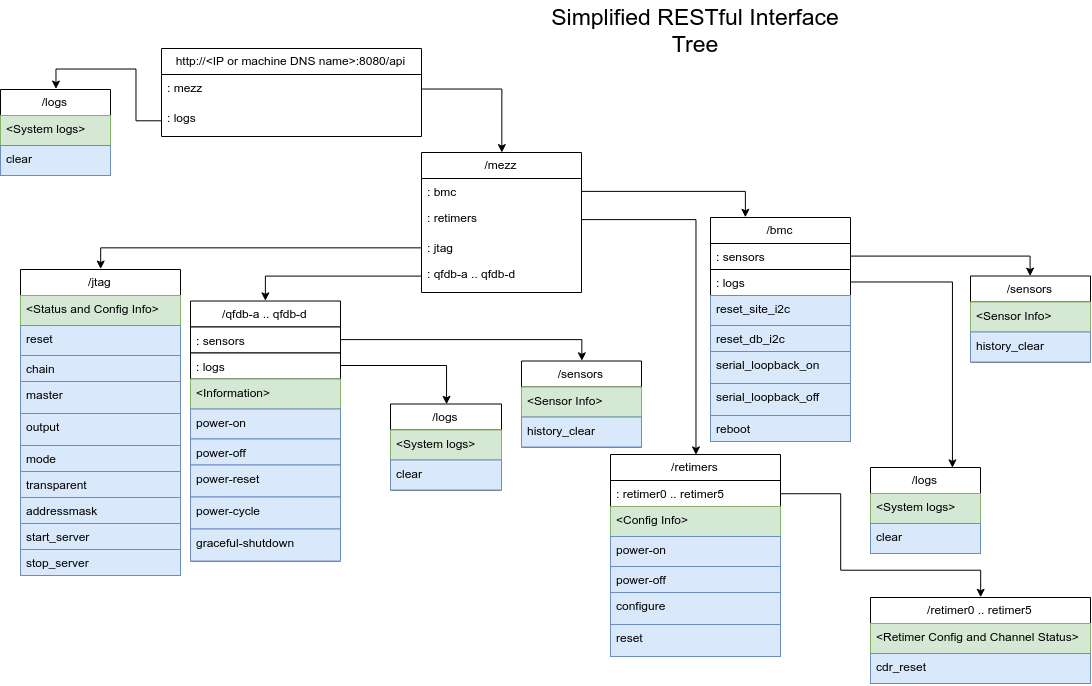
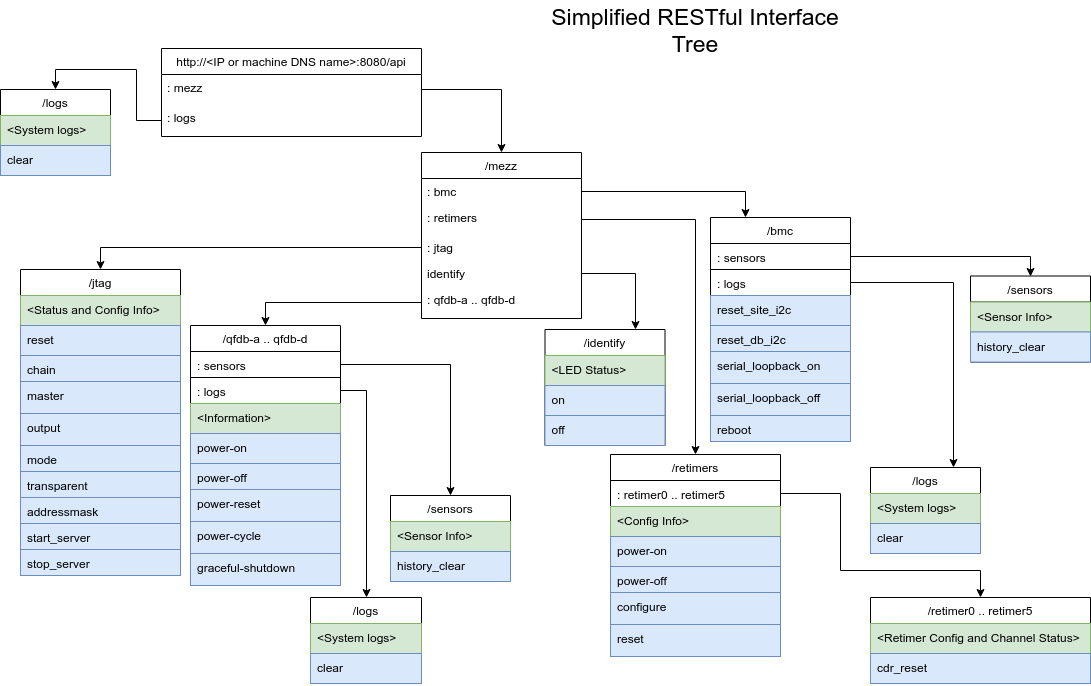
REST access to the identify mezzanine functionality
node is at
/api/mezz/identify

the actions are "on" or "off" in a POST
GET shows the current value.

diff --git a/meta-exanest/meta-track1/recipes-track1/rest-api/files/node_identify.py b/meta-exanest/meta-track1/recipes-track1/rest-api/files/node_identify.py
@@ -1,0 +1,55 @@
+#!/usr/bin/env python
+
+from subprocess import *
+from node import node
+from pal import *
+
+class identifyNode(node):
+    def __init__(self, name, info = None, actions = None):
+        self.name = name
+
+        if info == None:
+            self.info = {}
+        else:
+            self.info = info
+        if actions == None:
+            self.actions = []
+        else:
+            self.actions = actions
+
+    def getInformation(self, param={}):
+        identify_status=""
+        data = Popen('cat /mnt/data/kv_store/identify_board', \
+                            shell=True, stdout=PIPE).stdout.read().decode()
+        identify_status = data.strip('\n')
+        info = {
+                "Status of identify LED": identify_status
+        }
+
+        return info
+
+    def doAction(self, data):
+        if data["action"] == "on":
+            cmd = '/usr/bin/fpc-util --identify on'
+            data = Popen(cmd, shell=True, stdout=PIPE).stdout.read().decode()
+            if data.startswith( 'Usage' ):
+                res = 'failure'
+            else:
+                res = 'success'
+        elif data["action"] == "off":
+            cmd = '/usr/bin/fpc-util --identify off'
+            data = Popen(cmd, shell=True, stdout=PIPE).stdout.read().decode()
+            if data.startswith( 'Usage' ):
+                res = 'failure'
+            else:
+                res = 'success'
+        else:
+            res = 'not support this action'
+
+        result = { "result": res }
+
+        return result
+
+def get_node_identify(name):
+    actions = [ "on", "off" ]
+    return identifyNode(name = name, actions = actions)

diff --git a/meta-exanest/meta-track1/recipes-track1/rest-api/files/plat_tree.py b/meta-exanest/meta-track1/recipes-track1/rest-api/files/plat_tree.py
@@ -39,6 +39,7 @@ from node_tpdb import get_node_tpdb_pwm
 from node_retimers import get_node_retimers
 from node_retimer import get_node_retimer
 from node_jtag import get_node_jtag
+from node_identify import get_node_identify
 from tree import tree
 from pal import *
 
@@ -116,6 +117,9 @@ def init_plat_tree():
       else:
         print("Failed to add server " + repr(i))
 
+    # /api/mezz/identify to flash the led
+    r_identify = tree("identify", data = get_node_identify("mezzanine"))
+    r_mezz.addChild(r_identify)
 
     # /api/mezz/bmc end point, and sub points
     r_bmc = tree("bmc", data = get_node_bmc())
